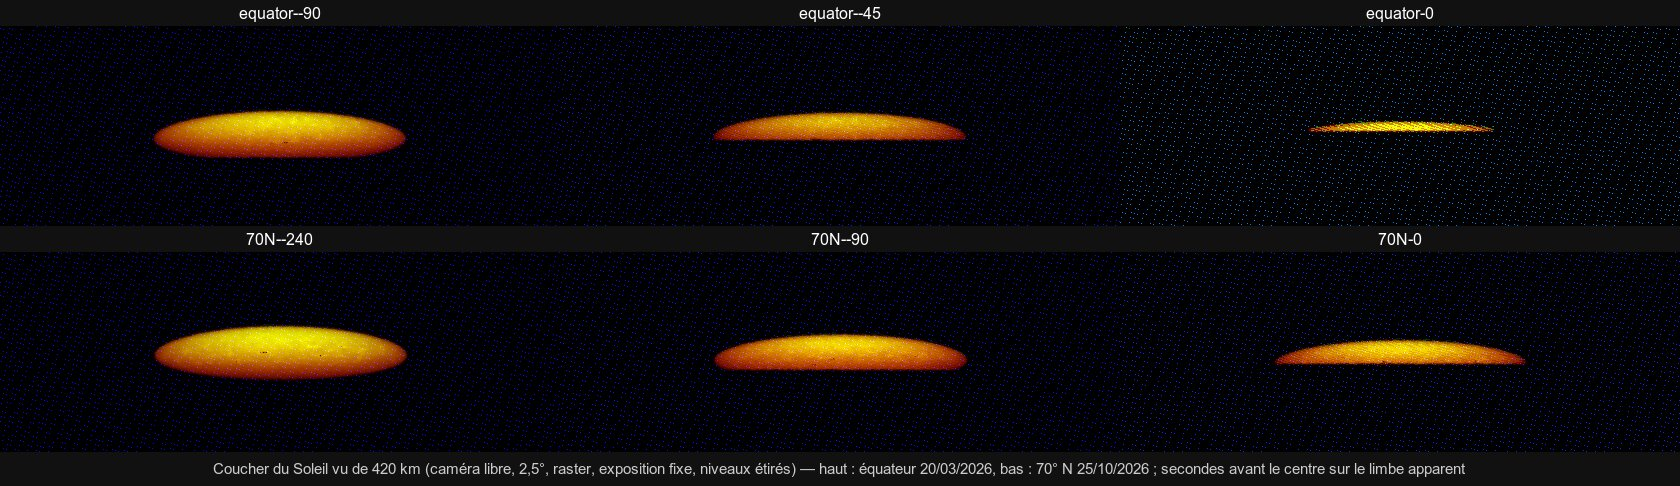
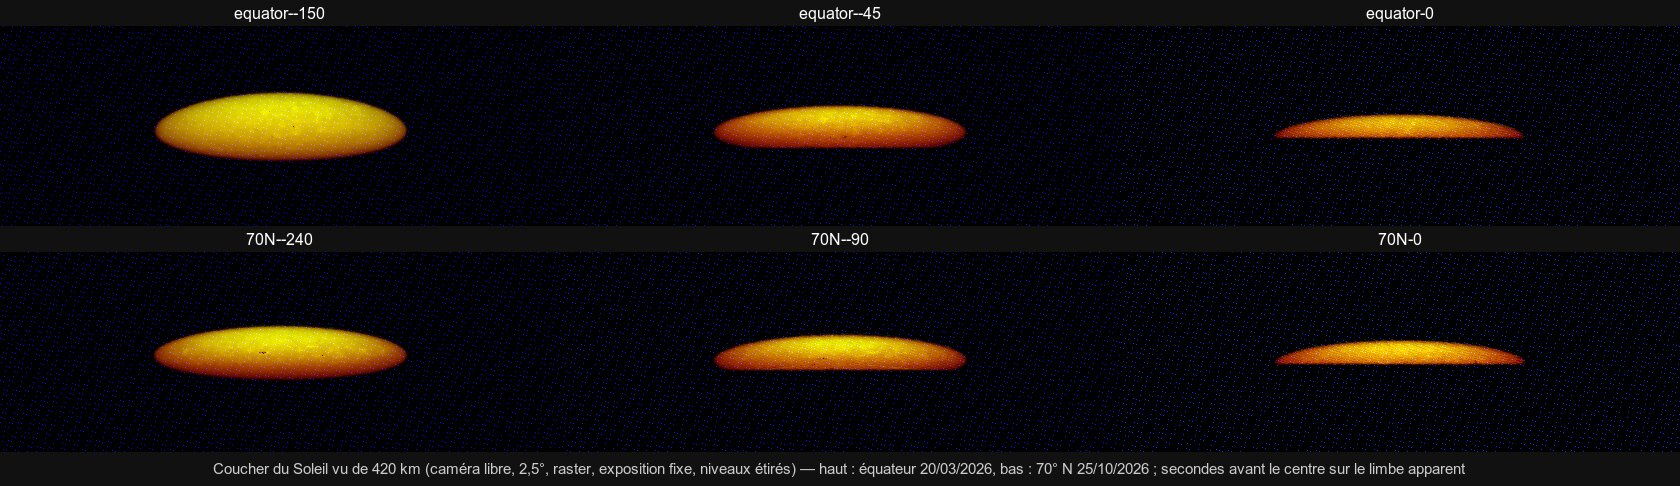
R2 : le coucher vu de l'ISS tenu aux deux latitudes (image = CPU à 0,26′, équateur et 70° N) ; la fausse extinction polaire était la caméra du test, dérivée avant le gel de l'horloge (417 km au lieu de 420) — iss-sunset la repose une fois l'horloge gelée

Changed region(s): [[0.0, 0.0, 1.0, 0.463], [0.0, 0.5247, 1.0, 0.9259], [0.2476, 0.5247, 0.2786, 0.5556]]

diff --git a/tests/e2e/iss-sunset.e2e.test.ts b/tests/e2e/iss-sunset.e2e.test.ts
@@ -185,6 +185,9 @@ test.skipIf(!E2E)(
             // (the lens eased to its field before the freeze — frozen, it would stay where it was)
             for (let i = 0; i < 600 && Math.abs(__bh.camera.viewController().s.fov - ${FOV}) > 0.002; i++) await f();
             for (let i = 0; i < 20; i++) await f(); __bh.game.setDate("${iso}"); __bh.freeze(true);
+            // (placed again once the clock is held: placed before, the free camera drifted while the clock ran on and was set
+            // back — 417 km instead of 420 over the equator, the limb 0.07° higher, the rays lower: more air)
+            __bh.viewAt(${lat}, ${lon}, { altM: ${H}, heading: ${s.az.toFixed(4)}, pitch: ${aimEl.toFixed(5)} });
             for (let i = 0; i < 60; i++) { __bh.touch(); await f(); } return why; })()`);
           if (why) throw new Error(`viewAt: ${why}`);
           await app.settled(60_000);

diff --git a/docs/progress/refraction-horizons/R2.md b/docs/progress/refraction-horizons/R2.md
@@ -161,30 +161,24 @@ azimut. Puis la réfraction est coupée : c'est le contrôle géométrique, le d
   montrait une tranche de trop.
 
 **Résultats (dernier passage, `R2/iss-coucher.jpg`) : hauteur visible du disque, image / CPU [′], aplatissement = hauteur /
-largeur**
+largeur dans l'image**
 
 | Pas (s avant le centre sur le limbe apparent) | −240 | −150 | −90 | −45 | 0 | +30 |
 |---|---|---|---|---|---|---|
-| **70° N** | 6,67 / 6,80 (0,207) | 5,65 / 5,57 (0,175) | 4,75 / 4,49 (0,147) | 3,85 / 3,73 (0,120) | 3,21 / 3,00 (0,100) | 2,69 / 2,53 (0,086) |
-| **équateur** | 4,23 / 11,33 | 7,57 / 8,69 | 5,90 / 7,09 | 3,59 / 5,43 | 1,41 / 2,99 | — / 1,54 |
+| **équateur** | 11,29 / 11,33 (0,352) | 8,60 / 8,69 (0,268) | 6,93 / 7,09 (0,216) | 5,52 / 5,43 (0,172) | 3,08 / 2,99 (0,097) | 1,80 / 1,54 (0,069) |
+| **70° N** | 6,67 / 6,80 (0,207) | 5,65 / 5,57 (0,175) | 4,49 / 4,49 (0,140) | 3,85 / 3,73 (0,120) | 3,21 / 3,00 (0,100) | 2,69 / 2,53 (0,086) |
 
-- **À 70° N, l'image suit le CPU à 0,26′ près** sur tout le coucher : le Soleil s'écrase de 1/5 à 1/12 et reste posé sur le
-  limbe. Avant les corrections, il restait 2,5′ trop haut à la fin.
-- **À l'équateur, le bas du disque est éteint** : l'image est plus basse que la géométrie. C'est ce que prévoit le modèle d'air
-  du jeu (`earth-air.ts sunThrough`) : transmission de 0,3 % pour un rayon rasant à 1 km de hauteur tangente, 2 % à 5 km,
-  5 % à 10 km. Le bas tombe donc sous le quart du haut.
-- **Défaut ouvert : l'extinction rasante est trop faible à 70° N.** Le contrôle géométrique le montre : le centre du Soleil sur
-  le limbe donne 6,3′ visibles à l'équateur (le bas éteint) et 14,2′ à 70° N, presque la géométrie seule (16,0′). La différence
-  tient à la latitude, pas à la région : mêmes chiffres au-dessus de l'Atlantique et du Pacifique à l'équateur, à 0° E et à
-  150° W à 70° N. Elle ne vient pas des tables : la réfraction coupée la montre aussi. Le Soleil du jeu est à 0,005° de celui de
-  NOAA. Tendance mesurée (contrôle géométrique, le centre du Soleil sur le limbe, hauteur visible) : 0° 6,3′ ; 35° N 6,2′ ; 50° N
-  7,2′ ; 70° N 14,2′ ; 70° S 15,8′, la géométrie seule donnant 16′. L'extinction manque donc quand le point tangent du rayon est
-  près d'un pôle : vers 78° N depuis 70° N (azimut 293°), au pôle même depuis 70° S (azimut 188°). Écartés : les nuages (coupés),
-  la région (deux longitudes par latitude), la géométrie du limbe (les modèles diffèrent de 0,03–0,06° seulement). Le code de
-  `earthAir` (la marche dans l'espace aplati) ne montre rien de propre aux pôles à la lecture. Le pipeline tracé donne les mêmes chiffres
-  que le raster (équateur 6,5′, 70° N 14,2′) : le défaut est dans le chemin commun (`earthNear` → `earthAir`), pas dans les
-  disques du raster. Depuis 80° N (azimut 320°, point tangent au-delà de 85° N), même absence d'extinction, et le disque dépasse
-  même un peu la géométrie (8,1′ contre 7,0′ sous le limbe, 26,4′ contre 25,1′ au-dessus) : le limbe ou la base de l'air y
-  seraient un peu plus bas que WGS84. Piste suivante : une tranche de shader de `earthAir` sur un rayon rasant dont le point
-  tangent est à 0° puis à 85° de latitude, comme `eclipse-atmosphere`.
+- **L'image suit le CPU à 0,26′ près aux deux latitudes**, sur tout le coucher. Le Soleil s'écrase de 1/3 à 1/14 et reste posé
+  sur le limbe, à 70° N comme à l'équateur : le contrôle du plan est tenu. Avant les corrections, à 70° N, il restait 2,5′ trop
+  haut en fin de coucher (la bande sous le limbe apparent).
+- **Le contrôle géométrique** (réfraction coupée, le disque coupé par le limbe et éteint en bas) donne les mêmes chiffres aux
+  deux latitudes : 13,5′ et 14,2′ visibles, le centre du Soleil sur le limbe ; 6,4′ et 6,8′, le centre 0,15° dessous.
+- **Fausse piste écartée, un défaut du test.** Un passage précédent semblait montrer une extinction rasante trop faible près des
+  pôles : 6,3′ visibles à l'équateur contre 14,2′ à 70° N, puis 35° N et 50° N comme l'équateur, 70° S et 80° N comme 70° N.
+  Le rendu n'était pas en cause. Un jumeau CPU de la marche d'`earthAir` donne la même transmission à toutes les latitudes.
+  Une sonde de la transmission du shader l'a montrée identique pixel par pixel à l'équateur et à 70° N. Le défaut était dans la
+  caméra du test : posée puis laissée tourner avec le monde avant que l'horloge soit ramenée et gelée, la caméra libre dérivait.
+  Mesuré : 417,1 km au lieu de 420 au-dessus de l'équateur, ce qui remonte le limbe de ~0,07° et fait passer les rayons plus bas
+  dans l'air ; 419,1 km et 0,17° de latitude à 70° N. Le test repose maintenant la vue une fois l'horloge gelée : 420,000 km
+  aux deux lieux.
 - **Non contrôlé** : une photo réelle de coucher depuis l'ISS à date et heure connues ; la couleur du disque.
